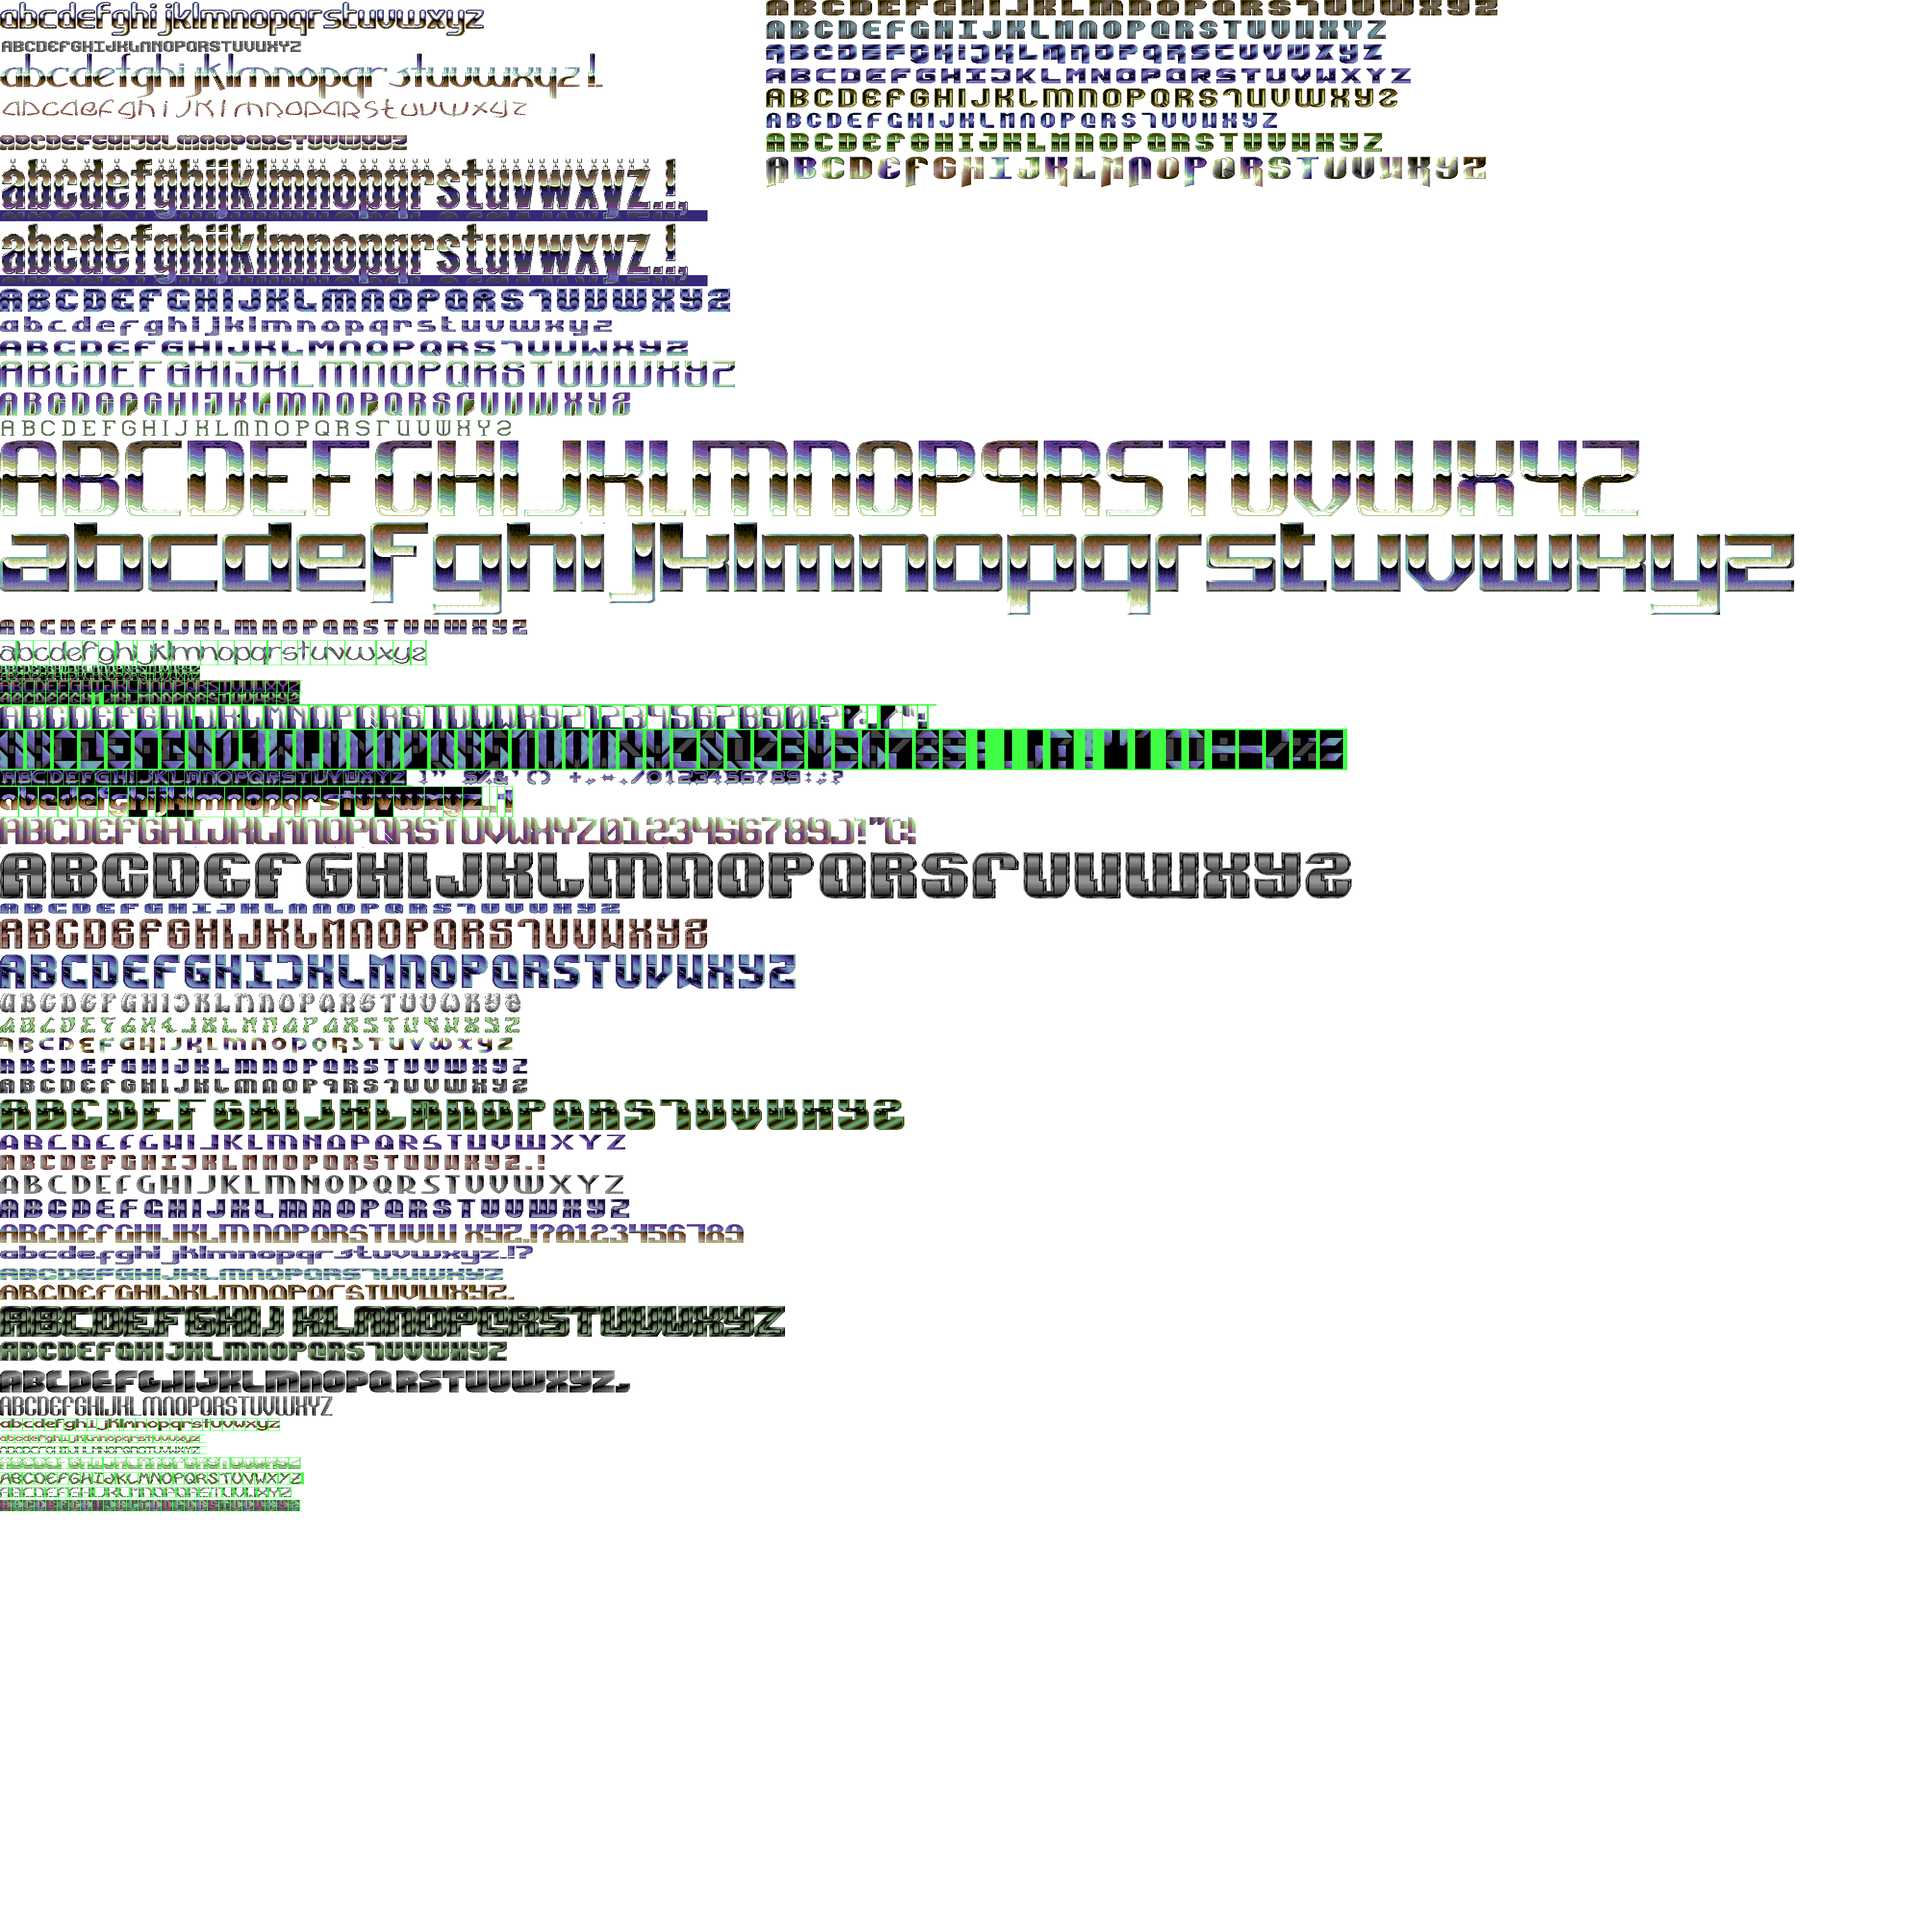
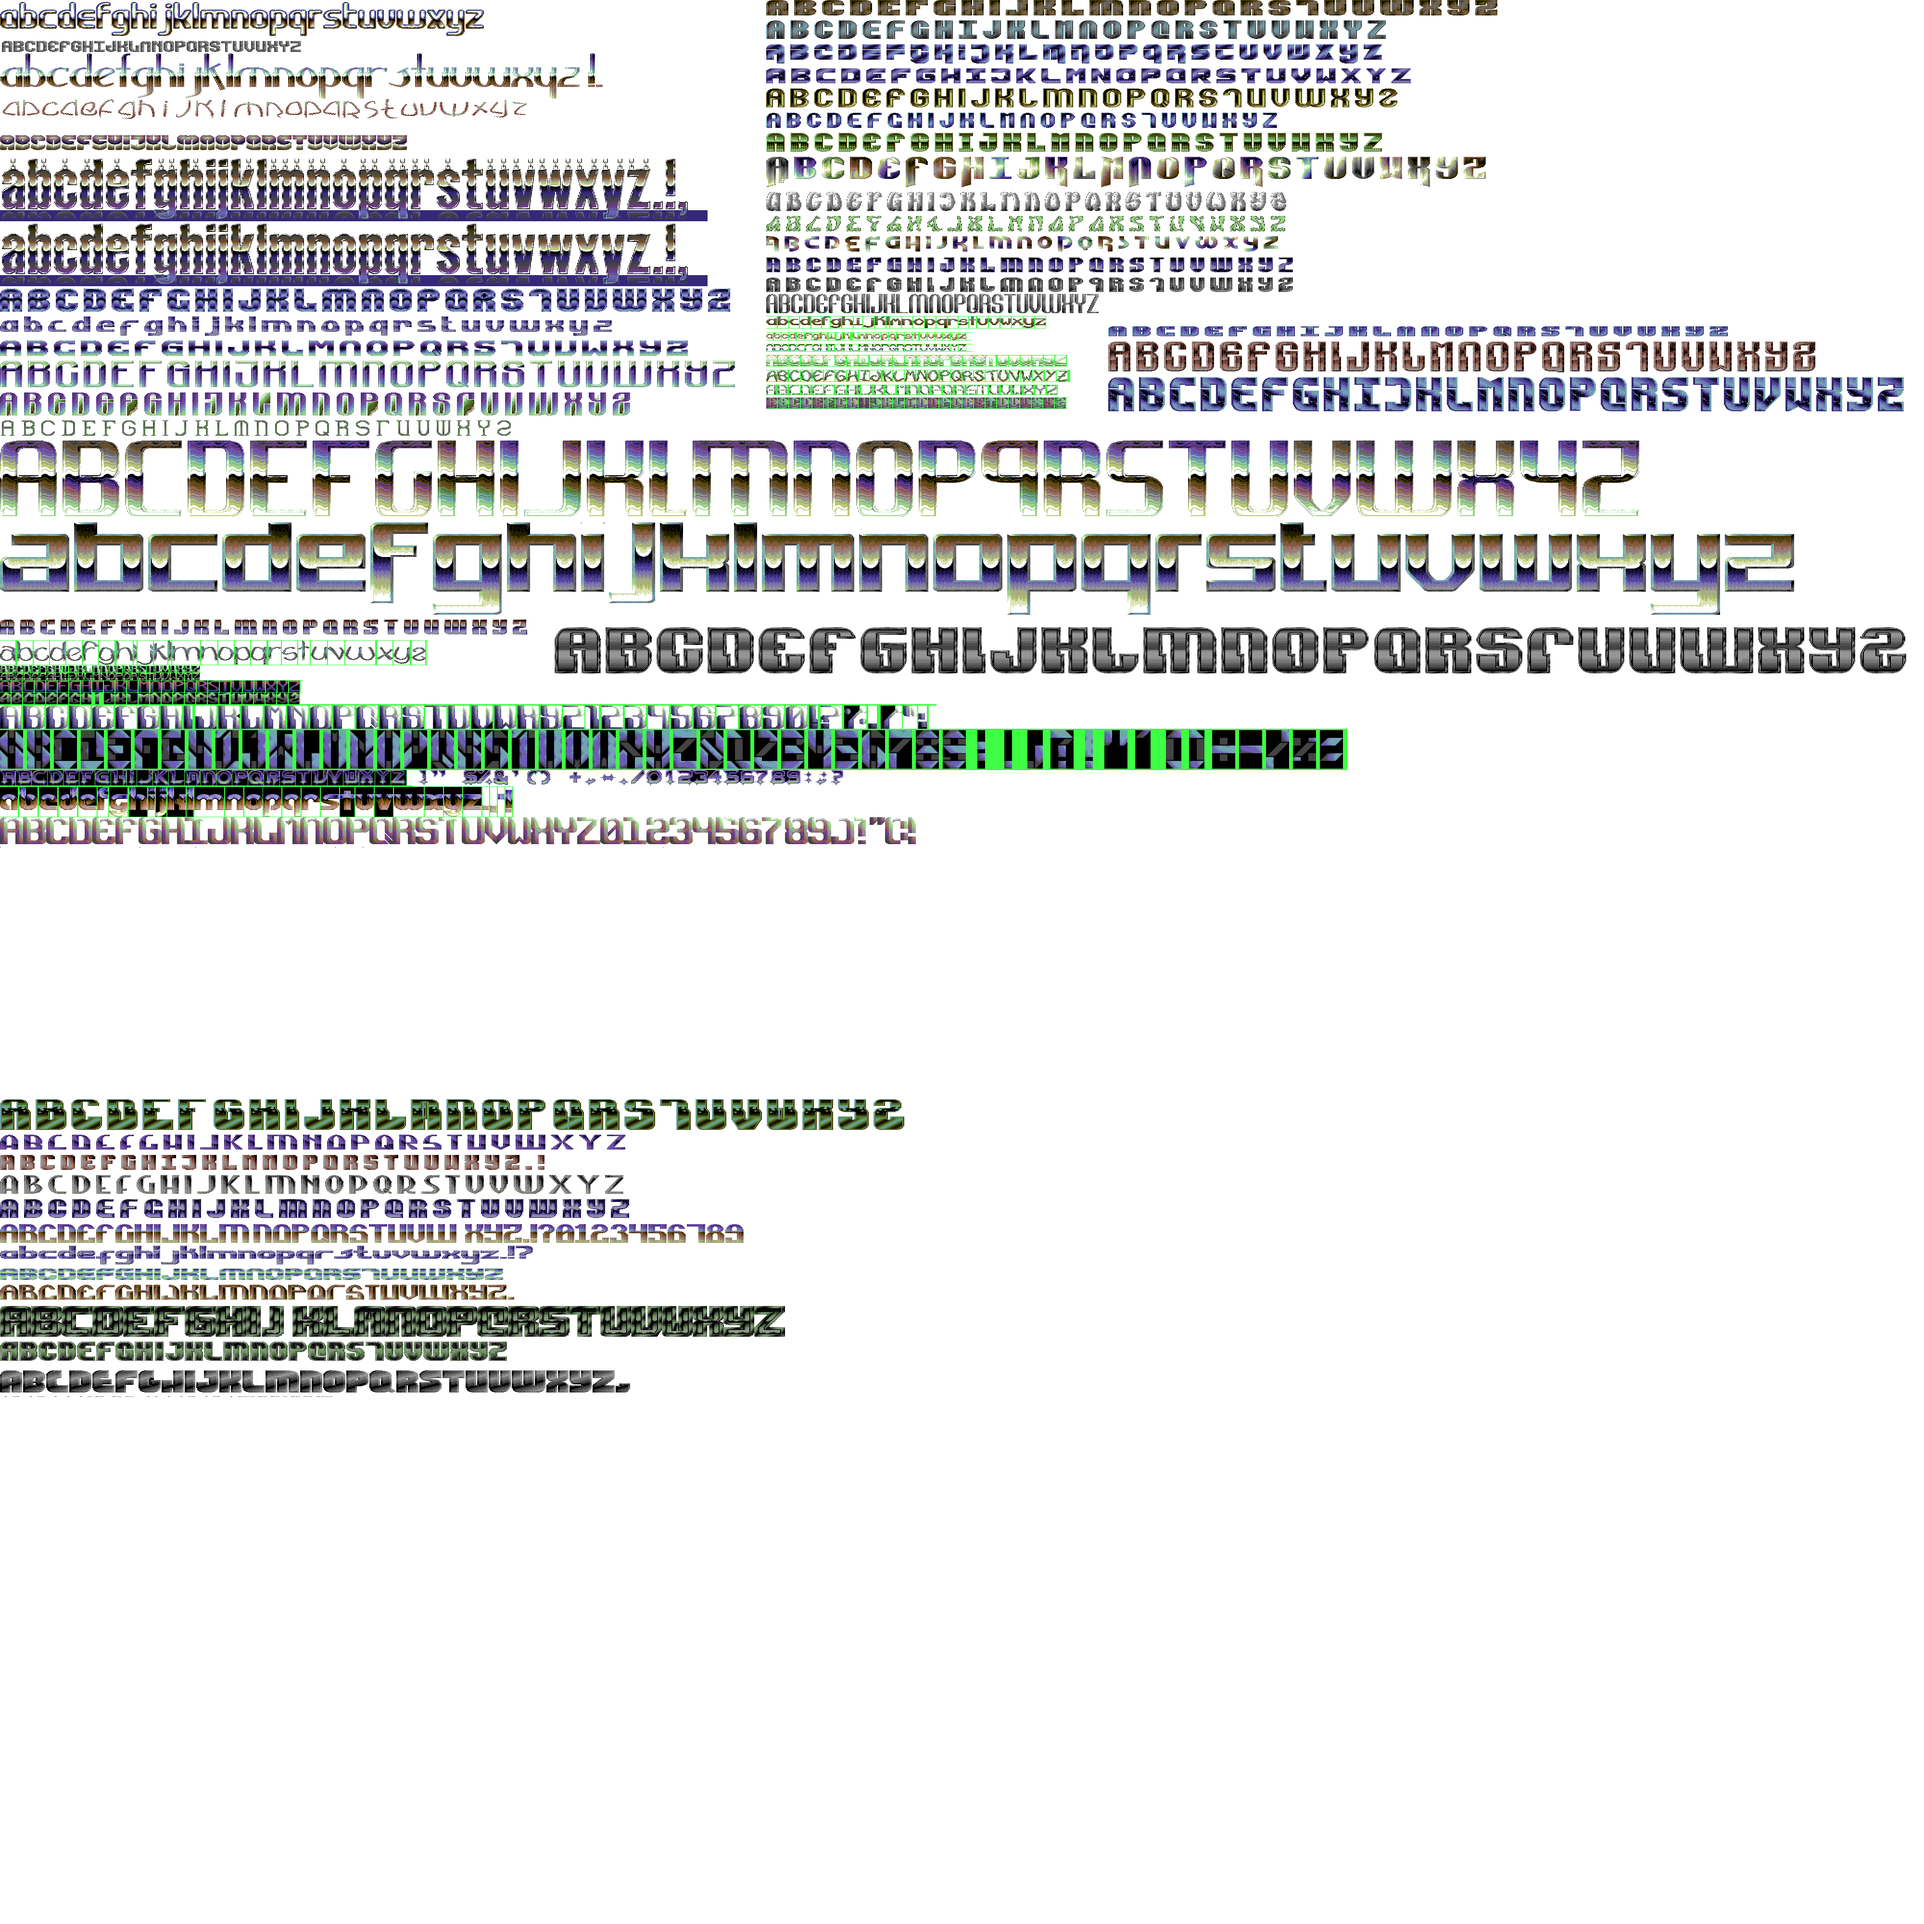
more font shifting

diff --git a/js/fonts.js b/js/fonts.js
@@ -20,7 +20,7 @@ var fonts = {
     format: '3 colour charset',
     maker: 'Cupid',
     makerlink: 'http://csdb.dk/scener/?id=8137',
-    offset:2984,height:14,
+    xoffset:1593,offset:692,height:14,
     a:[0,14],b:[16,14],c:[32,14],d:[48,14],e:[64,14],f:[80,14],g:[96,14],
     h:[112,14],i:[130,12],j:[146,12],k:[160,14],l:[180,10],m:[192,14],
     n:[208,14],o:[224,14],p:[240,14],q:[256,14],r:[272,14],s:[288,14],
@@ -83,7 +83,7 @@ var fonts = {
     format:'2x2 Hires with Rasterbars',
     maker:'Cupid',
     makerlink:'http://csdb.dk/scener/?id=8137',
-    offset:3008,height:14,
+    xoffset:1593,offset:716,height:14,
     a:[0,15],b:[16,15],c:[32,14],d:[48,15],e:[64,15],f:[80,15],g:[96,15],
     h:[112,15],i:[130,11],j:[144,15],k:[160,15],l:[176,15],m:[192,15],
     n:[208,15],o:[224,15],p:[240,15],q:[256,15],r:[272,15],s:[288,15],
@@ -111,7 +111,7 @@ var fonts = {
     format: '3 colour charset',
     maker: 'Cupid',
     makerlink: 'http://csdb.dk/scener/?id=8137',
-    offset:3031,height:22,
+    xoffset:1593,offset:739,height:22,
     a:[0,22],b:[24,22],c:[48,22],d:[72,22],e:[96,22],f:[120,22],g:[144,22],
     h:[168,22],i:[192,20],j:[216,22],k:[240,22],l:[264,22],m:[288,22],
     n:[313,22],o:[337,22],p:[361,22],q:[385,22],r:[409,22],s:[433,22],
@@ -125,7 +125,7 @@ var fonts = {
     format: '3 colour charset',
     maker: 'Cupid',
     makerlink: 'http://csdb.dk/scener/?id=8137',
-    offset:3062,height:23,
+    xoffset:1593,offset:770,height:23,
     a:[0,22],b:[24,20],c:[48,22],d:[72,22],e:[96,22],f:[120,22],g:[144,22],
     h:[168,22],i:[194,20],j:[216,22],k:[242,20],l:[264,22],m:[288,22],
     n:[312,22],o:[336,22],p:[362,20],q:[384,22],r:[408,22],s:[432,22],
@@ -139,7 +139,7 @@ var fonts = {
     format: '3 colour charset',
     maker: 'Cupid',
     makerlink: 'http://csdb.dk/scener/?id=8137',
-    offset:3093,height:19,
+    xoffset:1593,offset:801,height:19,
     a:[0,20],b:[24,20],c:[48,22],d:[72,20],e:[96,22],f:[120,20],g:[144,22],
     h:[168,20],i:[191,4],j:[198,22],k:[224,20],l:[248,20],m:[272,20],
     n:[296,20],o:[320,20],p:[344,20],q:[368,20],r:[392,20],s:[416,22],
@@ -153,7 +153,7 @@ var fonts = {
     format:'',
     maker:'Cupid',
     makerlink: 'http://csdb.dk/scener/?id=8137',
-    offset:2903,height:42,
+    xoffset:1593,offset:611,height:42,
     a:[0,24],b:[26,24],c:[52,24],d:[78,24],e:[104,24],f:[130,24],
     g:[156,24],h:[182,24],i:[208,8],j:[218,23],k:[244,24],l:[268,24],
     m:[296,40],n:[340,24],o:[365,24],p:[390,24],q:[416,24],
@@ -195,7 +195,7 @@ var fonts = {
     format:'3 colour charset',
     maker:'censor',
     makerlink: '',
-    offset:2242,height:32,
+    xoffset:1593,offset:577,height:32,
     a:[0,31],b:[42,31],c:[84,31],d:[126,31],e:[166,31],f:[208,31],
     g:[250,31],h:[292,31],i:[334,15],j:[361,31],k:[403,31],l:[445,31],
     m:[487,47],n:[544,31],o:[586,31],p:[628,31],q:[670,31],
@@ -265,7 +265,7 @@ var fonts = {
     maker: 'Cupid',
     makerlink: 'http://csdb.dk/scener/?id=8137',
     background: 'darkgrey',
-    offset:3119,height:22,
+    xoffset:1593,offset:827,height:22,
     a:[0,22],b:[24,22],c:[48,22],d:[72,22],e:[96,22],f:[120,22],g:[144,22],
     h:[168,22],i:[192,22],j:[216,22],k:[240,22],l:[264,22],m:[288,22],
     n:[312,22],o:[336,22],p:[360,22],q:[384,22],r:[408,22],s:[432,22],
@@ -307,7 +307,7 @@ var fonts = {
     format: '3 colour charset',
     maker: 'Cupid',
     makerlink: 'http://csdb.dk/scener/?id=8137',
-    offset:2950,height:24,
+    xoffset:1593,offset:658,height:24,
     a:[0,22],b:[24,22],c:[48,20],d:[70,22],e:[94,20],
     f:[116,16],g:[134,22],h:[158,22],i:[182,18],j:[202,22],k:[226,22],
     l:[250,6],m:[258,22],n:[282,22],o:[306,22],p:[330,22],q:[354,22],
@@ -601,7 +601,7 @@ var fonts = {
     format: '3 colour charset',
     maker:'Dolla',
     makerlink: 'http://csdb.dk/scener/?id=2229',
-    offset:1878,height:22,
+    xoffset:2304,offset:678,height:22,
     a:[0,40],b:[50,40],c:[100,40],d:[150,40],e:[200,40],f:[250,40],g:[300,40],
     h:[350,40],i:[400,40],j:[450,40],k:[500,40],l:[550,40],m:[600,40],
     n:[650,40],o:[700,40],p:[750,40],q:[800,40],r:[850,40],s:[900,40],
@@ -615,7 +615,7 @@ var fonts = {
     format:'3 colour charset',
     maker: 'Vic',
     makerlink: 'http://csdb.dk/scener/?id=1076',
-    offset:2065,height:40,
+    xoffset:1593,offset:399,height:40,
     a:[0,32],b:[42,32],c:[84,32],d:[126,32],e:[168,32],f:[210,32],g:[252,32],
     h:[294,32],i:[336,16],j:[362,32],k:[404,32],l:[446,32],m:[488,40],
     n:[538,32],o:[580,32],p:[622,32],q:[664,32],r:[706,32],s:[748,32],
@@ -655,7 +655,7 @@ var fonts = {
     format:'3 colour charset',
     maker: 'Vic',
     makerlink: 'http://csdb.dk/scener/?id=1076',
-    offset:2115,height:32,
+    xoffset:1593,offset:449,height:32,
     a:[0,32],b:[42,32],c:[84,32],d:[126,32],e:[168,32],f:[210,32],g:[252,32],
     h:[294,32],i:[336,32],j:[378,32],k:[420,32],l:[462,32],m:[504,32],
     n:[546,32],o:[588,32],p:[630,32],q:[672,32],r:[714,32],s:[756,32],
@@ -669,7 +669,7 @@ var fonts = {
     format:'FLI',
     maker:'Yup&Burp',
     makerlink: 'http://csdb.dk/scener/?id=5006',
-    offset:2157,height:34,
+    xoffset:1593,offset:491,height:34,
     a:[0,29],b:[39,32],c:[81,32],d:[123,32],e:[165,32],f:[207,32],g:[249,32],
     h:[291,32],i:[333,12],j:[355,24],k:[389,32],l:[431,24],m:[465,48],
     n:[523,32],o:[565,32],p:[607,32],q:[649,32],r:[691,32],s:[733,24],
@@ -683,7 +683,7 @@ var fonts = {
     format:'3 colour charset',
     maker:'Flex',
     makerlink: 'https://csdb.dk/scener/?id=530',
-    offset:2201,height:32,
+    xoffset:1593,offset:535,height:32,
     a:[0,32],b:[42,32],c:[84,32],d:[126,32],e:[168,32],f:[210,32],g:[252,32],
     h:[294,32],i:[336,16],j:[362,32],k:[404,32],l:[446,32],m:[488,48],
     n:[546,32],o:[588,32],p:[630,32],q:[672,32],r:[714,32],s:[756,32],
@@ -697,7 +697,7 @@ var fonts = {
     format: '3 colour charset',
     maker: 'Rooster',
     makerlink: 'http://csdb.dk/scener/?id=5295',
-    offset:1910,height:64,
+    xoffset:2304,offset:710,height:64,
     a:[0,48],b:[58,48],c:[116,48],d:[174,48],e:[232,48],f:[290,48],g:[348,48],
     h:[406,48],i:[464,22],j:[496,48],k:[554,48],l:[612,48],m:[670,48],
     n:[728,48],o:[786,48],p:[844,48],q:[902,48],r:[960,48],s:[1018,48],
@@ -767,7 +767,7 @@ var fonts = {
     format:'',
     maker:'',
     makerlink: '',
-    offset:1984,height:71,
+    xoffset:2304,offset:784,height:71,
     b:[64,54],a:[0,54],c:[128,54],d:[192,54],e:[256,54],f:[320,54],
     g:[384,54],h:[448,54],i:[512,54],j:[576,54],k:[640,54],l:[704,54],
     m:[768,54],n:[832,54],o:[896,54],p:[960,54],q:[1024,54],r:[1088,54],
